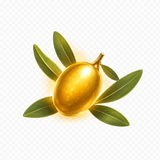
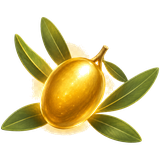
황금올리브 흰배경 제거(투명 처리 + 기도응답 아이콘 수정)

diff --git a/index.html b/index.html
@@ -1468,7 +1468,7 @@
             <div class="thx-stats">
               <div class="ts"><div class="ts-ic"><svg viewBox="0 0 24 24" fill="none" stroke="#7e9a54" stroke-width="1.8" stroke-linecap="round" stroke-linejoin="round"><path d="M12 21v-7"/><path d="M12 15c-1.2-3.6-4-5-7-5 0 3.8 2.8 5 7 5z"/><path d="M12 13c.7-3 3-4.2 6-4.2 0 3.2-2.4 4.2-6 4.2z"/></svg></div><div class="tv num" id="thx-streak">0</div><div class="tl">감사 연속(일)</div></div>
               <div class="ts"><div class="ts-ic"><svg viewBox="0 0 24 24" fill="none" stroke="#7e9a54" stroke-width="1.8" stroke-linecap="round" stroke-linejoin="round"><rect x="3.5" y="5" width="17" height="15" rx="2.4"/><path d="M3.5 9.4h17M8 3.4v3M16 3.4v3"/></svg></div><div class="tv num" id="thx-month">0</div><div class="tl">이번 달</div></div>
-              <div class="ts"><div class="ts-ic"><svg viewBox="0 0 24 24"><ellipse cx="12" cy="13" rx="6" ry="7.5" fill="#e7b53c"/><path d="M12 6c1-3 4-3 4-3" stroke="#7faa63" stroke-width="1.8" fill="none" stroke-linecap="round"/><ellipse cx="10" cy="10.5" rx="1.6" ry="2.2" fill="#fff" opacity=".45"/></svg></div><div class="tv num" id="thx-answer">0</div><div class="tl">기도 응답</div></div>
+              <div class="ts"><div class="ts-ic"><svg viewBox="0 0 24 24"><ellipse cx="12" cy="13" rx="6" ry="7.5" fill="#e0a92e"/><ellipse cx="11" cy="11" rx="3.4" ry="4.4" fill="#f0c450"/><path d="M12 6c1-3 4-3 4-3" stroke="#7faa63" stroke-width="1.8" fill="none" stroke-linecap="round"/></svg></div><div class="tv num" id="thx-answer">0</div><div class="tl">기도 응답</div></div>
             </div>
             <div class="thx-add">
               <div class="thx-add-h">오늘의 감사</div>